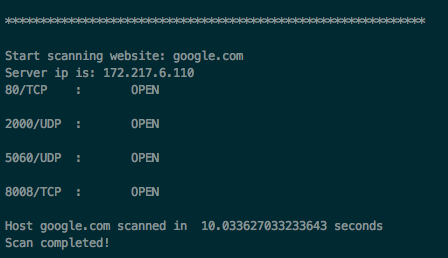
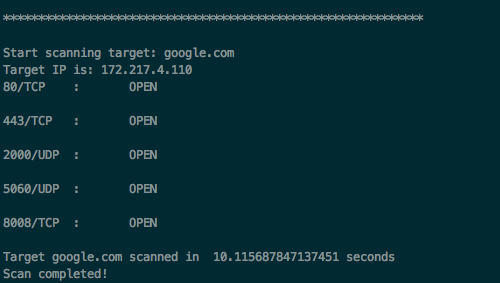
Refactor code, fix bug and add README

diff --git a/pyportscanner/pyscanner.py b/pyportscanner/pyscanner.py
@@ -1,11 +1,7 @@
-# -*- coding: utf-8 -*-
-
+import concurrent.futures
 import platform
 import socket
-import threading
 import time
-
-import concurrent.futures
 
 from pyportscanner.etc.helper import read_input, get_domain
 
@@ -60,13 +56,13 @@ class PortScanner:
     def thread_limit(self):
         return self.__thread_limit
 
-    def __init__(self, target_ports=None, thread_limit=100, verbose=False):
+    def __init__(self, target_ports=None, thread_limit=100, timeout=10, verbose=False):
         """
         Constructor of a PortScanner object. If target_ports is a list, this list of ports will be used as
         the port list to be scanned. If the target_ports is a int, it should be 50, 100 or 1000, indicating
         which default list will be used.
 
-        :param target_ports: If this args is a list, then this list of ports that is going to be scanned,
+        :param target_ports: If this args is a list, then this list of ports is going to be scanned,
         default to all ports we have in file.
         If this args is an int, then it specifies the top X number of ports to be scanned based on usage
         frequency rank.
@@ -82,7 +78,7 @@ class PortScanner:
         self.__thread_limit = thread_limit
 
         # default connection timeout time in seconds
-        self.__timeout = 10
+        self.__timeout = timeout
 
         self.__verbose = verbose
 
@@ -131,33 +127,38 @@ class PortScanner:
         port_list = self.extract_list(k)
         return port_list
 
-    def scan(self, host_name, message=''):
+    def scan(self, objective, message=''):
         """
         This is the function need to be called to perform port scanning.
 
-        :param host_name: the hostname that is going to be scanned
+        :param objective: the objective that is going to be scanned. Could be a host name or an IPv4 address.
         :param message: the message that is going to be included in the scanning packets
         in order to prevent ethical problem (default: '').
         :return: a dict object containing the scan results for a given host in the form of
         {port_number: status}
         :rtype: dict
         """
-        host_name = get_domain(host_name)
+        try:
+            socket.inet_aton(objective)
+            host_name = objective
+        except OSError or socket.error:
+            # this is not an valid IPv4 address
+            host_name = get_domain(objective)
 
         if self.__verbose:
             print('\n')
             print('*' * 60 + '\n')
-            print('Start scanning website: {}'.format(host_name))
+            print('Start scanning target: {}'.format(host_name))
 
         try:
             server_ip = socket.gethostbyname(host_name)
             if self.__verbose:
-                print('Server ip is: {}'.format(str(server_ip)))
+                print('Target IP is: {}'.format(str(server_ip)))
 
         except socket.error:
-            # If the DNS resolution of a website cannot be finished, abort that website.
+            # If the DNS resolution of a website cannot be finished, abort the host.
             if self.__verbose:
-                print('Hostname {} unknown! Scan failed'.format(host_name))
+                print('Target {} unknown! Scan failed.'.format(host_name))
                 self.__usage()
             return {}
 
@@ -166,7 +167,7 @@ class PortScanner:
         stop_time = time.time()
 
         if self.__verbose:
-            print('Host {} scanned in  {} seconds'.format(host_name, stop_time - start_time))
+            print('Target {} scanned in  {} seconds'.format(host_name, stop_time - start_time))
             print('Scan completed!\n')
 
         return output
@@ -197,6 +198,11 @@ class PortScanner:
                 while len(futures) >= self.__thread_limit:
                     self.__check_futures(output, futures)
                     time.sleep(0.01)
+
+            # make sure all thread outputs are stored.
+            while futures:
+                self.__check_futures(output, futures)
+                time.sleep(0.01)
 
         # Print opening ports from small to large
         if self.__verbose:

diff --git a/examples/PortScanExample.py b/examples/PortScanExample.py
@@ -1,9 +1,9 @@
-from pyportscanner import PortScanner
+from pyportscanner import pyscanner
 
 
 def main():
     # Initialize a Scanner object that will scan top 50 commonly used ports.
-    scanner = PortScanner.PortScanner(target_ports=100, verbose=True)
+    scanner = pyscanner.PortScanner(target_ports=100, verbose=True)
 
     host_name = 'google.com'
 

diff --git a/README.md b/README.md
@@ -1,0 +1,42 @@
+# Python Port Scanner v0.3
+
+An easy to use Python3 package that could perform port scanning conveniently.
+
+An output example is showed as following:
+![Output Example](https://github.com/YaokaiYang-assaultmaster/py3PortScanner/blob/master/ExampleGraph/portscanner_output_new.png)
+
+## Installation  
+1. Clone or download this repository.
+2. Install the package using `python setup.py install`.   
+3. Voilà! You are ready to go!
+
+## QuickStart
+1. Add `from pyportscanner import pyscanner` to the beginning of your code.
+2. Initialize a new PortScanner object using `scanner = pyscanner.PortScanner(target_ports=100, timeout=10, verbose=True)`.
+3. Then call `scanner.scan(objective)` to perform a port scan to a specific target.
+The target could either be an IPv4 address or a host name.
+4. __Note that the total scan time for a target website is highly related to the timeout value set for the Scanner object. Thus for the seek of efficiency, the timeout should not be too long.__
+
+## Documentation 
+### _class pyportscanner.pyscanner.PortScanner(target_ports=None, thread_limit=100, timeout=10, verbose=False)_
+PortScanner is the class provides methods to execute the port scan request. A PortScanner object is needed for performing
+the port scan request.  
+
+- _target_ports_ can be a list or int. If this args is a list, then the list of ports specified by it is going to be scanned, 
+default to all ports we have in file. If this args is an int, then it specifies the top X number of ports to be scanned based on usage
+frequency rank.
+- _thread_limit_ is the number of thread being used for scan.  
+- _timeout_ is the timeout for the socket to wait for a response.
+- _verbose_ specifies whether the results would be print out or not. If `True`, results will be print out. 
+
+### _Functions_  
+__PortScanner.scan(objective, message = '')__ 
+
+Scan an objective with the given message included in the packets sent out.  
+
+- _objective_ is the target that is going to be scanned. It could be an IPv4 address or a hostname.  
+- _message_ is the message that is going to be included in the scanning packets sent out. If not provided, no message will be included in the packets.    
+
+An example usage case is showed in [_examples/PortScanExample.py_](https://github.com/YaokaiYang-assaultmaster/py3PortScanner/blob/master/examples/PortScanExample.py).  
+
+## [Change logs](https://github.com/YaokaiYang-assaultmaster/py3PortScanner/blob/master/CHANGELOG.md)
